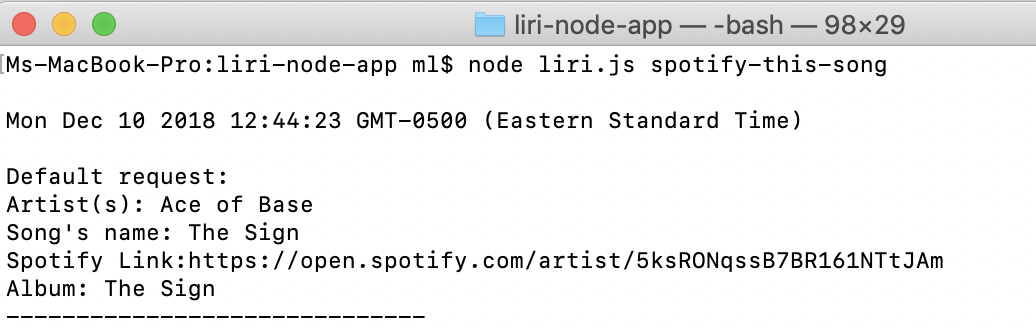
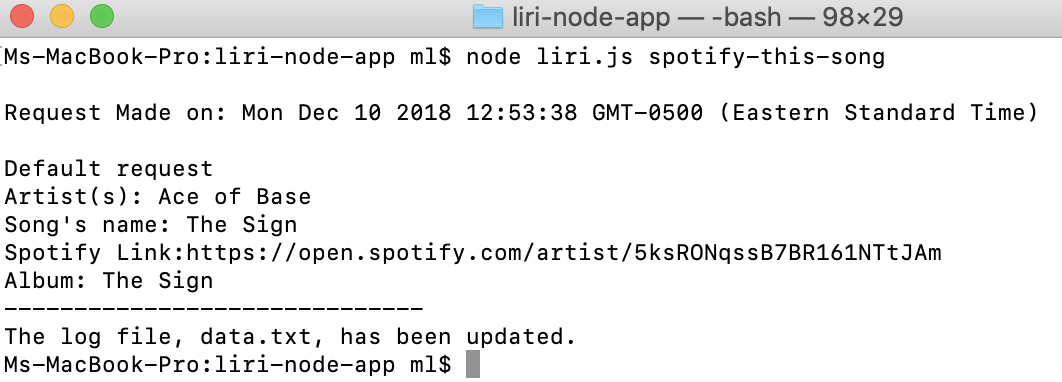
updating README file

diff --git a/liri.js b/liri.js
@@ -26,8 +26,8 @@ var defaultSong = function(){
     .request('https://api.spotify.com/v1/tracks/0hrBpAOgrt8RXigk83LLNE')
     .then(function(data) {
         output =
-           '\n' + timeStamp + '\n' + 
-            '\nDefault request: ' +
+           '\nRequest Made on: ' + timeStamp + '\n' + 
+            '\nDefault request' +
             "\nArtist(s): " +  data.artists[0].name +
             "\nSong's name: " + data.name+ 
             "\nSpotify Link:" + data.artists[0].external_urls.spotify +
@@ -119,7 +119,7 @@ var movie = function(){
     axios.get(link).then(
     function(response) {
             output=
-            '\n' + timeStamp + '\n' + 
+            '\nRequest Made on: ' + timeStamp + '\n' + 
             '\nOMB Response for: ' + input + 
             '\nTitle: ' + response.data.Title+ 
             '\nYear: ' + response.data.Year+

diff --git a/README.md b/README.md
@@ -12,10 +12,9 @@ Marsha Leconte
 
 # How to run LIRI
 
-## Concerts 
+## Concerts Request
 The concert-this parameter, which is used to receive information about concerts, must be executed 
-in the following syntax structure:  
-node liri.js concert-this **`<artist/band name here>`**
+in the following syntax structure: node liri.js concert-this **`<artist/band name here>`**
 
 This request will return the follwoing concert information:
 
@@ -30,9 +29,9 @@ The **LIRI** application will also inform you if it does not find the requested 
 <img src="assets/read-me-images/concert-this-2.png">
 
 
-## Songs
+## Songs Request
 
-The spotify-this-song  parameter, is used to render information about songs. In oder to use this feature the following syntax must be used: node liri.js spotify-this-song **`<song name here>`**
+The spotify-this-song  parameter, is used to render information about songs. In order to use this feature the following syntax must be used: node liri.js spotify-this-song **`<song name here>`**
 
 This request will return the follwoing information about the desired song:
 
@@ -46,3 +45,25 @@ This request will return the follwoing information about the desired song:
 In case a parameter is not provided, the request defautls to the song "The Sign" by the Swedish pop group Ace of Base.
 
 <img src="assets/read-me-images/spotify-this-song-2.png">
+
+## Movie Request
+
+The movie-this parameter is used to render information about movies. The following syntax must be used to excecute the request: node liri.js movie-this **`<movie name here>`**
+
+This request will return the follwoing information about the desired song:
+
+1. The Title
+2. The Year: 1999
+3. The IMDB Rating
+4. The Rotten Tomatoes Rating
+5. The Country
+6. The Original Language
+7. The Actors
+8. The Movie Plot
+
+<img src="assets/read-me-images/movie-this-1.png">
+
+In case a parameter is not provided, the request defautls to the movie "Mr. Nobody"
+
+<img src="assets/read-me-images/movie-this-2.png">
+
